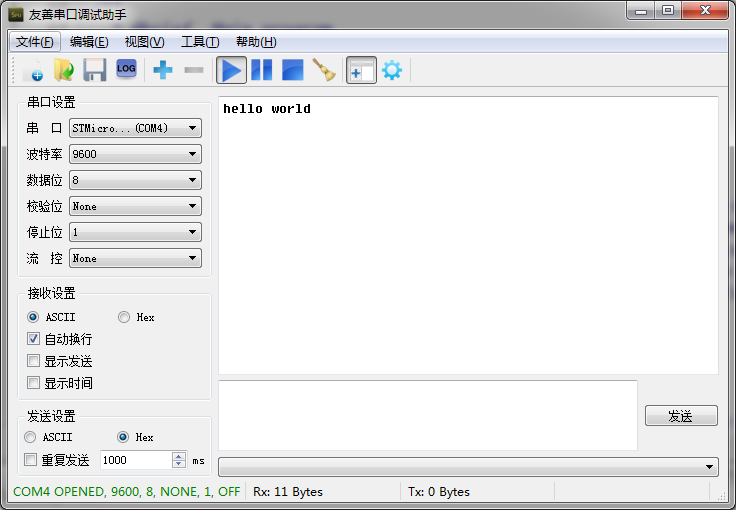
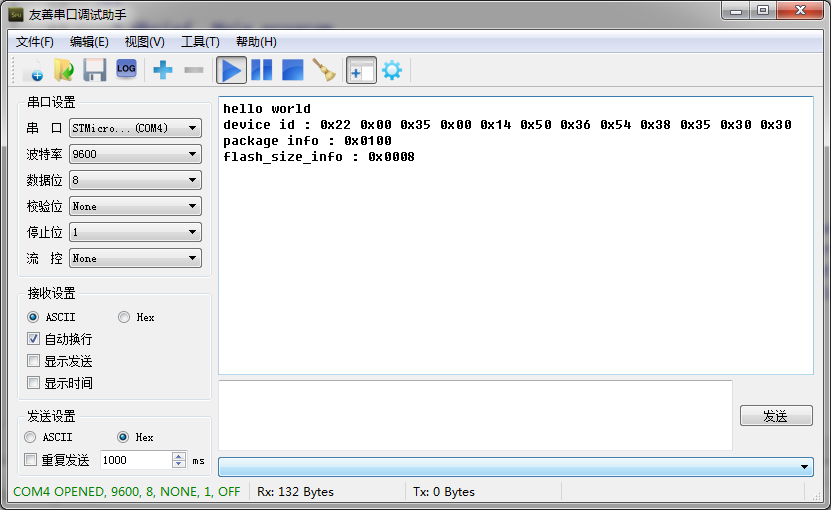
add demo

diff --git a/README.md b/README.md
@@ -11,6 +11,9 @@
 - 3、为了上传方便，删除了工程项目模板文件中对 keil 和 sw4stm32 开发工具的支持，仅保留了 IAR 开发平台项目工程。
 
 ## 演示
+
+使用 printf 函数将 MCU 的设备 ID ，flash 容量大小，封装方式打印出来，代码和结果如下：
+
 ![uart-printf](http://github.com/cyang812/STM32-uart-printf/raw/master/DEMO.png)
 
 ## 移植步骤
